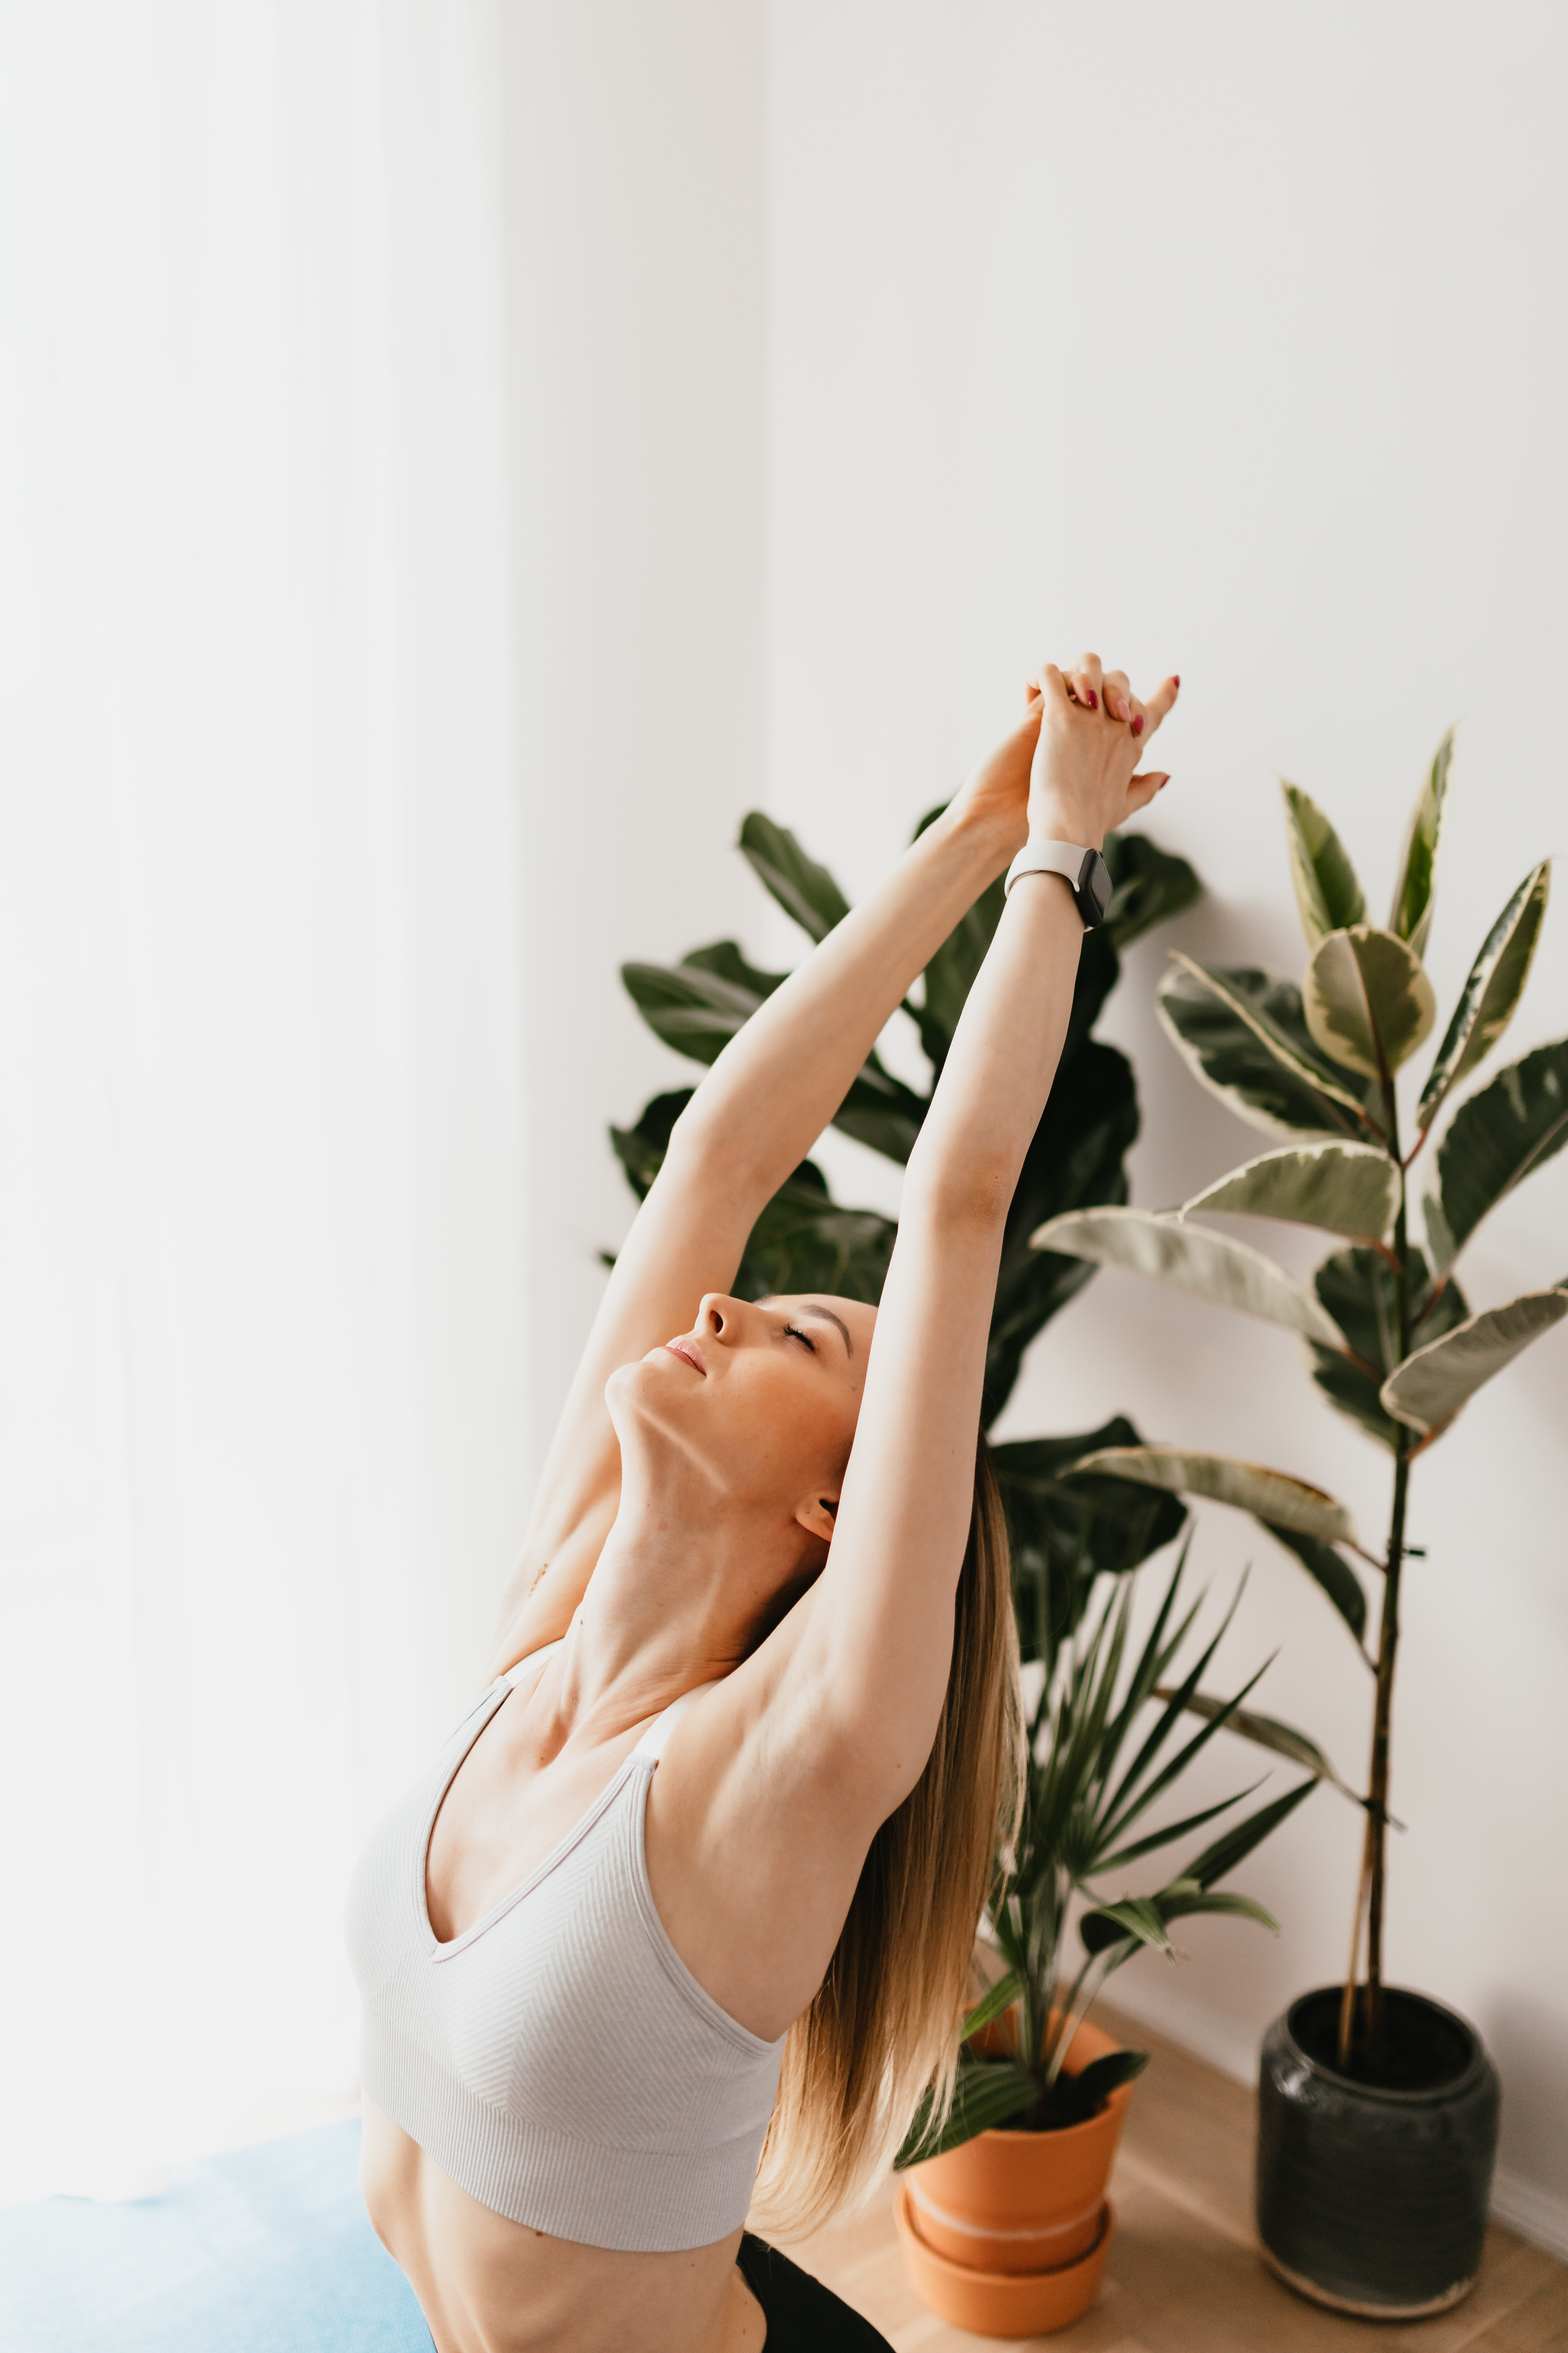
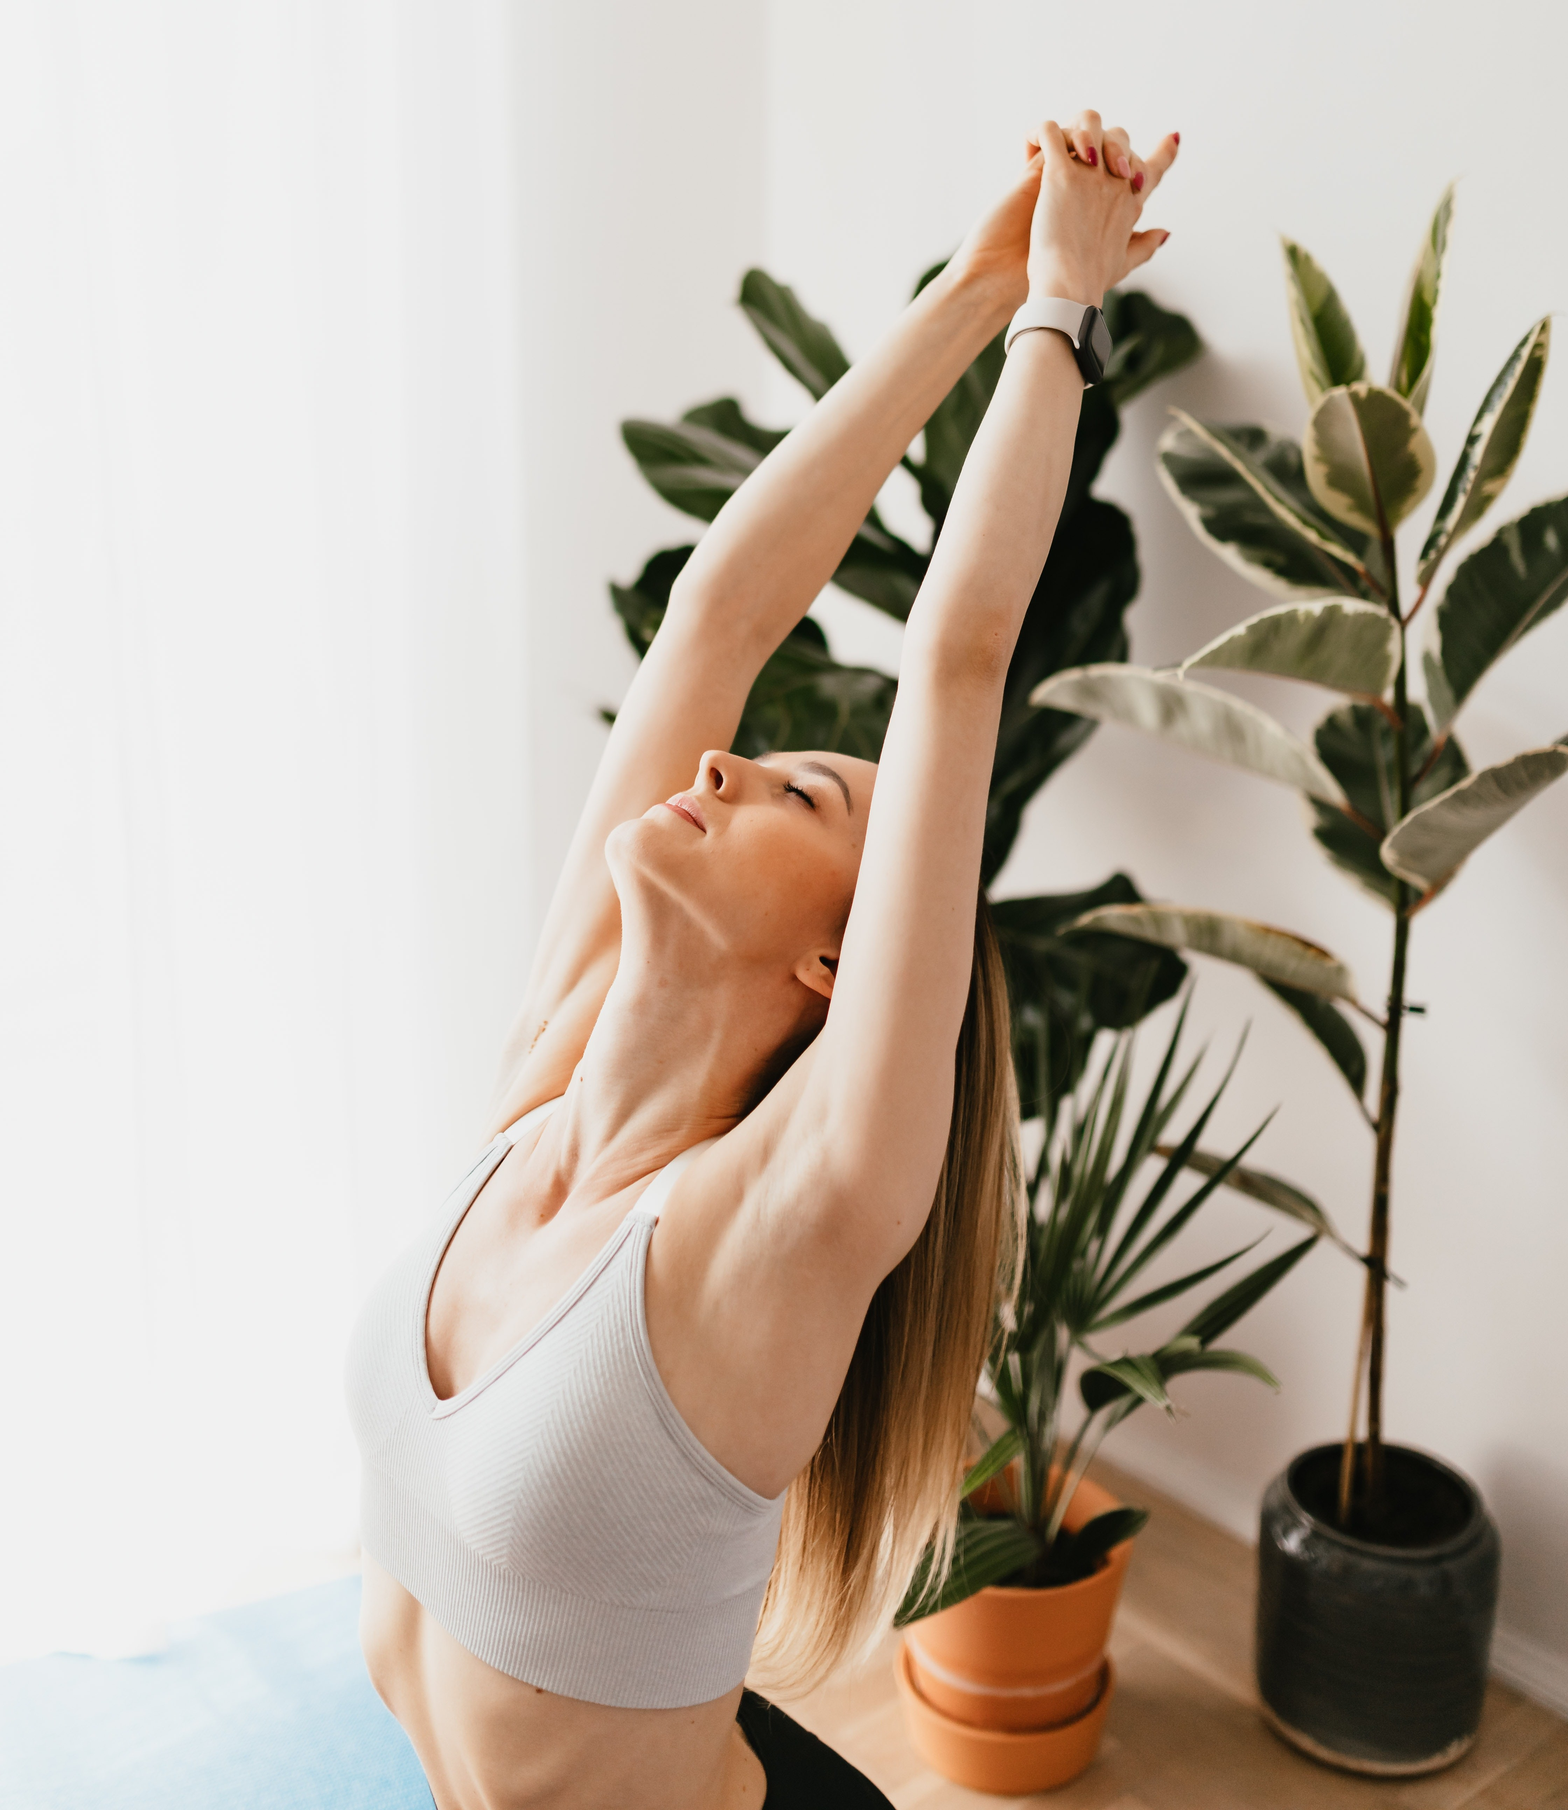
change picture position and add to all screen-sizes

diff --git a/index.html b/index.html
@@ -82,13 +82,6 @@
               <li>You need peace in your everyday life</li>
             </ul>
           </div>
-          <div>
-            <img
-              id="about-image"
-              src="assets/images/pexels-karolina-grabowska-4498158.jpg"
-              alt=""
-            />
-          </div>
           <div id="benefits" class="about-paragraph">
             <h3>
               Benefits of our classes: <br /><i class="fa-solid fa-spa"></i>
@@ -101,6 +94,13 @@
               <li>Free trial</li>
             </ul>
           </div>
+        </div>
+        <div>
+          <img
+            id="about-image"
+            src="assets/images/pexels-karolina-grabowska-4498158.jpg"
+            alt=""
+          />
         </div>
       </section>
       <section id="signup">

diff --git a/assets/css/style.css b/assets/css/style.css
@@ -121,7 +121,13 @@ main {
   text-align: start;
 }
 #about-image {
-  display: none;
+  padding: 0px;
+  display: block;
+  text-align: center;
+  max-width: 100%;
+  margin: 3rem auto;
+  border-bottom: var(--border);
+  border-top: var(--border);
 }
 #sign-up {
   background-color: burlywood;
@@ -176,15 +182,6 @@ footer {
   }
   main {
     margin-top: 64px;
-  }
-
-  #about-image {
-    display: block;
-    max-height: 393px;
-    margin: 10px;
-    border: var(--border);
-    border-radius: 20%;
-    box-shadow: 0px 0px 33px 23px rgba(189, 214, 223, 1);
   }
 }
 @media screen and (min-width: 1024px) {
